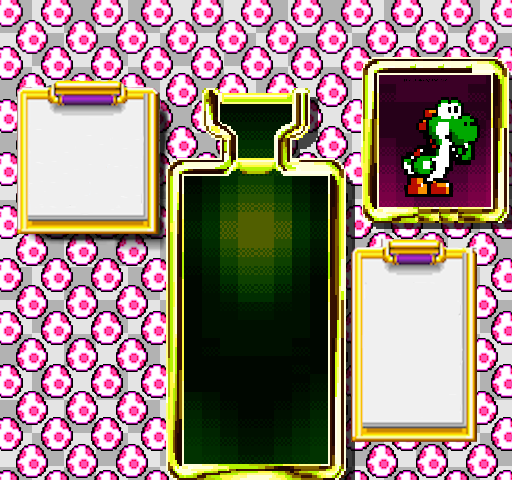
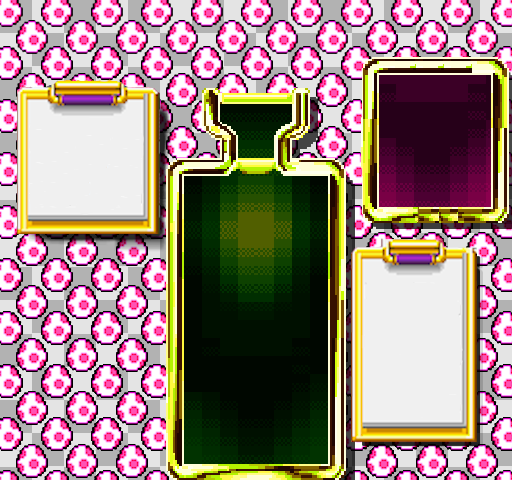
text things, scoring and more

Changed region(s): [[0.6875, 0.5312, 0.9688, 0.9375], [0.7812, 0.1875, 0.9375, 0.4375]]

diff --git a/DrYoshi/code/tilemap.js b/DrYoshi/code/tilemap.js
@@ -238,33 +238,7 @@ Tilemap.prototype.checkLine = function (pos_line, aux_length, step) {
 	}
 }
 
-// generate the viruses on the tilemap
-Tilemap.prototype.addViruses = function (difficulty_level) {
-	var max = this.map.height * this.map.width;
 
-	// empty the map
-	for (var i = 0; i < max; i++) {
-		this.map.layers[0].data[i] = 0;
-	}
-
-	var how_many_aux = 0;
-	var rand_num = -1;
-	var min = 13 * this.map.width - 2 * difficulty_level * this.map.width;
-
-	// populates with 4*difficulty_level viruses in random positions
-	while (how_many_aux < 4 * difficulty_level) {
-
-		// get a random position within the range min max
-		rand_num = Math.floor(Math.random() * (max - min) + min);
-		if (this.map.layers[0].data[rand_num] == 0) {
-			this.map.layers[0].data[rand_num] = pos_viruses[Math.floor(Math.random() * pos_viruses.length)];
-			how_many_aux++;
-		}
-	}
-
-	this.addCapsule(-1,-1,-1,-1,-1,-1); // DEBUG
-	stopped = false;
-}
 
 // Checks all the positions on the tilemap
 // and breaks the positions that have 4 or more consecutive colors
@@ -284,7 +258,6 @@ Tilemap.prototype.checkPositions = function () {
 
 	// delete positions marked 
 	var b = this.positions_to_break.length;
-
 	if (b > 0) {
 		stopped = true;
 		this.breakingState = true;
@@ -306,7 +279,15 @@ Tilemap.prototype.checkPositions = function () {
 			? 19 // virus to sprite explode 
 			: Math.floor((this.map.layers[0].data[pos] - 1) / 5) + 16; // g=0,r=1,b=2 :: 16,17,18 are broke sprites
 		this.map.layers[0].data[pos] = color;
-		if (this.positions_to_delete.indexOf(pos) == -1) this.positions_to_delete.push(pos);
+		if (this.positions_to_delete.indexOf(pos) == -1) { 
+			this.positions_to_delete.push(pos); 
+			
+			// SCORE AND VIRUS COUNTER
+			if(color == 19){ 
+				num_virus--;
+			}
+
+		}
 	}
 }
 
@@ -321,8 +302,8 @@ Tilemap.prototype.checkFallingCapsules = function () {
 
 			// check if its a virus or empty cell  
 			if(type != 0 && type < 20 && 
-				// check if has nothing below or cell below has to fall
-				(this.map.layers[0].data[pos + this.map.width] == 0 || false)) {
+				// check if has nothing below (or cell below has to fall (not implemented))
+				(this.map.layers[0].data[pos + this.map.width] == 0)) {
 
 				switch ((type - 1) % 5) {
 					case 4: // neutral capsule
@@ -359,4 +340,34 @@ function whichPositionToChange(position, type, width) {
 		default: break;
 	}
 	return position + res;
+}
+
+// generate the viruses on the tilemap
+Tilemap.prototype.addViruses = function (difficulty_level) {
+	var max = this.map.height * this.map.width;
+
+	// empty the map
+	for (var i = 0; i < max; i++) {
+		this.map.layers[0].data[i] = 0;
+	}
+
+	var how_many_aux = 0;
+	var rand_num = -1;
+	var min = 13 * this.map.width - 2 * difficulty_level * this.map.width;
+
+	// populates with 4*difficulty_level viruses in random positions
+	while (how_many_aux < 4 * difficulty_level) {
+
+		// get a random position within the range min max
+		rand_num = Math.floor(Math.random() * (max - min) + min);
+		if (this.map.layers[0].data[rand_num] == 0) {
+			this.map.layers[0].data[rand_num] = pos_viruses[Math.floor(Math.random() * pos_viruses.length)];
+			how_many_aux++;
+		}
+	}
+
+	num_virus = how_many_aux;
+
+	this.addCapsule(-1,-1,-1,-1,-1,-1); // DEBUG
+	stopped = false;
 }

diff --git a/DrYoshi/code/sceneGame.js b/DrYoshi/code/sceneGame.js
@@ -10,6 +10,13 @@ var pastilla2 = 0;
 var crear_pastilla = 1;
 var stopped = true;
 
+// text variables
+var top_score = 0;
+var num_score = 0;
+var num_virus = 0;
+var num_level = 0;
+var text_speed = "LOW"
+
 // Scene GAME . Updates and draws a single scene of the game.
 
 function SceneGame() {
@@ -17,7 +24,7 @@ function SceneGame() {
 	var fondo_juego = new Texture("../img/fondo_juego_v1.png");
 	
 	// Load texture textos
-	var salir = new Texture("../sprites/sprite_salir.png");
+
 	
 	// data estructure with all capsules
 	this.pastillasSprites = createPastillas();
@@ -26,12 +33,7 @@ function SceneGame() {
 	this.imageJuego = new StaticImage(0, 0, 512, 480, fondo_juego);
 	
 	// Create Sprites de textos
-	this.textoSalir = new Sprite(100, 355, 73, 21, 1, salir);
-	
-	this.textoSalir.addAnimation();
-	this.textoSalir.addKeyframe(0, [0, 0, 73, 21]);
-	this.textoSalir.addKeyframe(0, [0, 21, 73, 21]);
-	this.textoSalir.setAnimation(0);
+
 
 	// Loading texture to use in a TileMap
 	var tilesheet = new Texture("../tiles/tiles16.png");
@@ -185,15 +187,15 @@ SceneGame.prototype.update = function (deltaTime) {
 		pastilla2 = old_p2;
 	}
 
-	// Salir (quitar luego)
-	if (keyboard[13]) {
-		keyboard[13] = false;
+	// EXIT (WITH Q) (DEBUG)
+	if (keyboard[81]) {
+		keyboard[81] = false;
 		whichScene = 0;
 	}
 
 	// update sprites
 	this.map.update(deltaTime);
-	this.textoSalir.update(deltaTime);
+
 }
 
 SceneGame.prototype.draw = function () // meter argumento
@@ -207,7 +209,7 @@ SceneGame.prototype.draw = function () // meter argumento
 	var context = canvas.getContext("2d");
 
 	// Clear background
-	context.fillStyle = "rgb(224, 224, 240)";
+	// context.fillStyle = "rgb(224, 224, 240)";
 	context.fillRect(0, 0, canvas.width, canvas.height);
 
 	this.imageJuego.draw();
@@ -219,10 +221,21 @@ SceneGame.prototype.draw = function () // meter argumento
 	this.pastillasSprites[pastilla1].draw();	
 	this.pastillasSprites[pastilla2].draw();
 
-	//Draw sprite salir (quitar en futuro)
-	this.textoSalir.x = 50;
-	this.textoSalir.y = 150;
-	this.textoSalir.draw();
+	var texts = ["TOP", "SCORE", "LEVEL", "SPEED", "VIRUS"];
+	context.font = "bold 20px FreeMono";
+	context.fillStyle = "Black"
+
+	context.fillText(texts[0], 36, 136); // TOP TEXT
+	context.fillText(top_score, 36, 156); // TOP NUM
+	context.fillText(texts[1], 36, 186); // SCORE TEXT
+	context.fillText(num_score, 36, 206); // SCORE NUM
+	
+	context.fillText(texts[2], 370, 290); // LEVEL TEXT
+	context.fillText(num_level, 370, 310); // LEVEL NUM
+	context.fillText(texts[3], 370, 340); // SPEED TEXT
+	context.fillText(text_speed, 370, 360); // SPEED (NUM)
+	context.fillText(texts[4], 370, 390); // VIRUS TEXT
+	context.fillText(num_virus, 370, 410); // VIRUS COUNT
 }
 
 SceneGame.prototype.updateParameters = function () {
@@ -232,6 +245,15 @@ SceneGame.prototype.updateParameters = function () {
 	this.map.addViruses(whichDifficulty);
 	//whichSpeed // do something with this two
 	//whichMusic
+
+	// texts things
+	switch (whichSpeed) {
+		case 0: text_speed = "LOW"; break;
+		case 1: text_speed = "MID"; break;
+		default: text_speed = "HI"; break;
+	}
+	num_level = whichDifficulty;
+
 }
 
 function createPastillas() {
